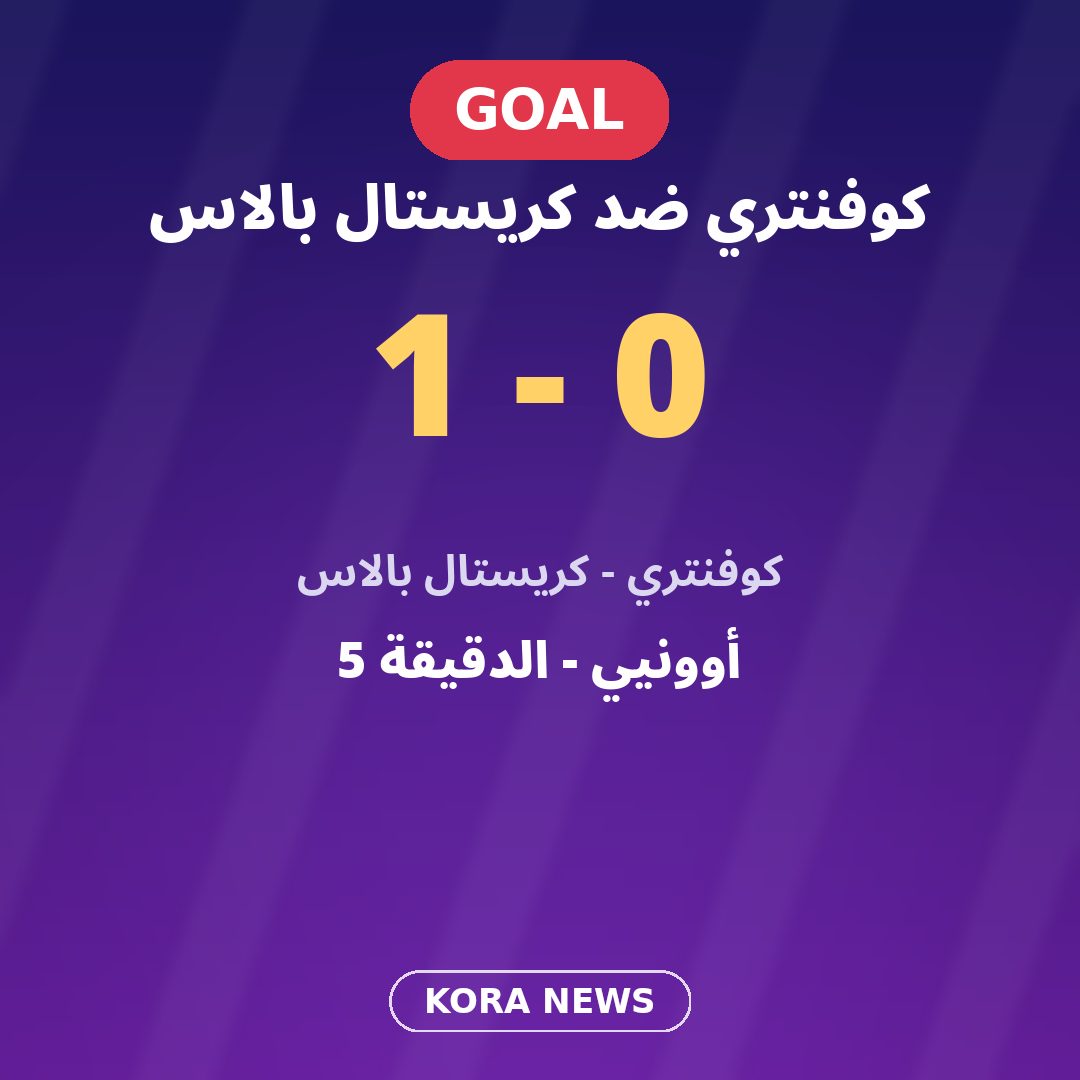
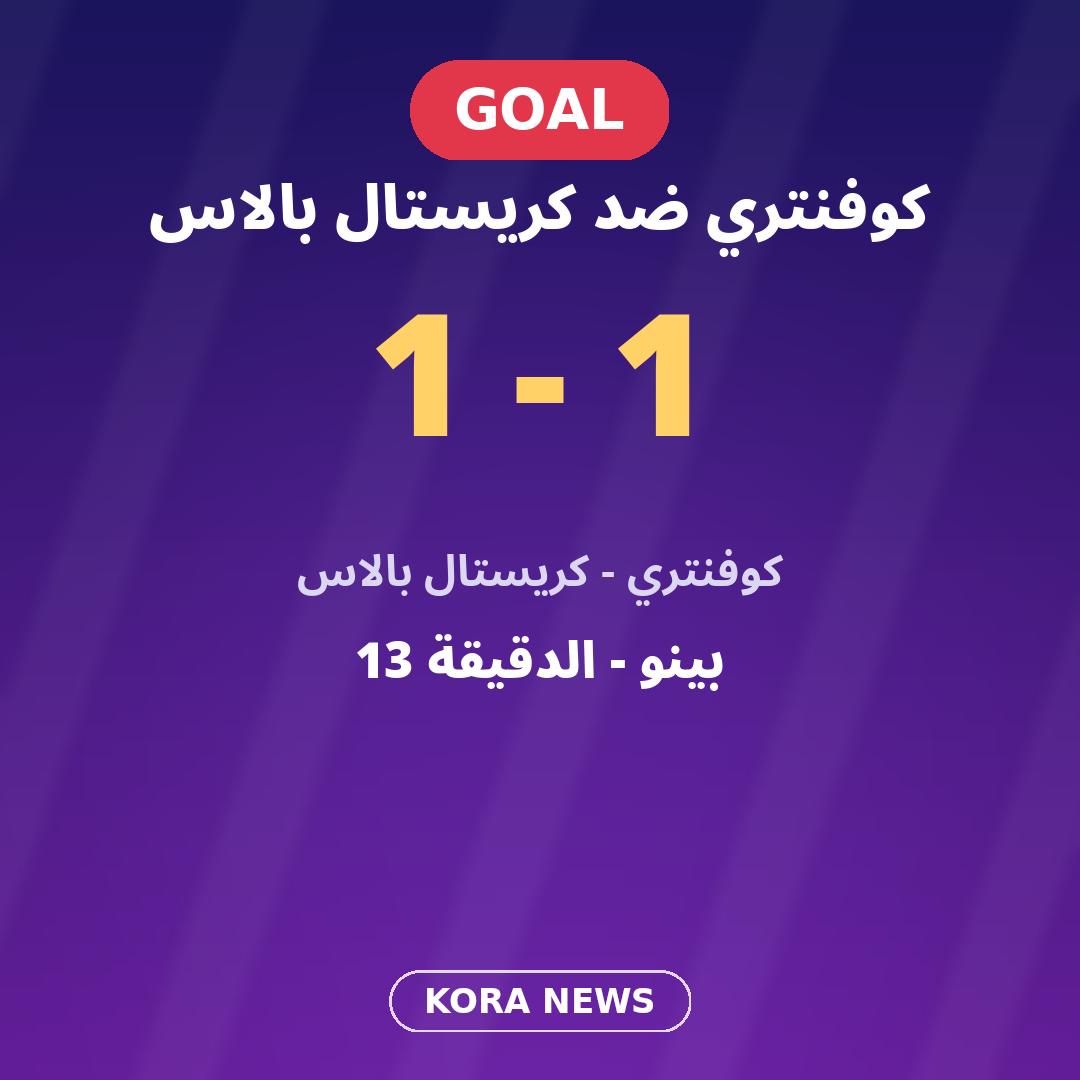
Update Coventry equalizer and add Bournemouth opening goal live snapshot

Changed region(s): [[0.3056, 0.5806, 0.7028, 0.6417], [0.55, 0.275, 0.6722, 0.4278]]

diff --git a/posts/2026-11-21-coventry-palace-live.md b/posts/2026-11-21-coventry-palace-live.md
@@ -1,18 +1,18 @@
 ---
-title: مباشر كوفنتري وكريستال بالاس: أوونيي يسجل مبكرًا
+title: مباشر كوفنتري وكريستال بالاس: بينو يدرك التعادل
 slug: coventry-palace-live
-date: 2026-11-21T17:07:00+02:00
+date: 2026-11-21T17:22:00+02:00
 category: الدوري الإنجليزي
-excerpt: أوونيي يفتتح التسجيل لكوفنتري في الدقيقة الخامسة. النتيجة وقت التحقق عند 17:07 القاهرة هي تقدم كوفنتري بهدف دون رد، وليست نتيجة نهائية.
+excerpt: بينو يعادل لكريستال بالاس في الدقيقة 13. التعادل1-1 وقت التحقق عند17:22 القاهرة، وليس نتيجة نهائية.
 image: coventry-palace-live.png
 facebook: https://www.facebook.com/61550609084848/posts/122326986104020302
 ---
 
-## تحديث 17:07 بتوقيت القاهرة
+## تحديث 17:22 بتوقيت القاهرة
 
-تقدم كوفنتري بهدف دون رد على كريستال بالاس في الدقائق الأولى من مباراتهما بالدوري الإنجليزي يوم السبت 21 نوفمبر 2026، بعدما سجل تايو أوونيي في الدقيقة الخامسة.
+أدرك يريمي بينو التعادل لكريستال بالاس أمام كوفنتري في الدقيقة 13، بعدما افتتح تايو أوونيي التسجيل لأصحاب الأرض في الدقيقة الخامسة.
 
-أظهرت تغطية FotMob تقدم كوفنتري 1-0 وقت التحقق عند الساعة 17:07 بتوقيت القاهرة. هذه لقطة من سير المباراة وليست نتيجة نهائية؛ الصورة المرفقة توثق الهدف الأول.
+أظهرت تغطية FotMob التعادل بهدف لمثله وقت التحقق عند الساعة 17:22 بتوقيت القاهرة يوم 21 نوفمبر 2026. هذه لقطة من سير المباراة وليست نتيجة نهائية، والصورة المرفقة توثق هدف التعادل.
 
 [المصدر: تغطية المباراة المباشرة لدى FotMob](https://www.fotmob.com/matches/coventry-city-vs-crystal-palace/2tu88y).
 

diff --git a/posts/2026-11-21-bournemouth-forest-live.md b/posts/2026-11-21-bournemouth-forest-live.md
@@ -1,0 +1,18 @@
+---
+title: مباشر بورنموث وفورست: إيفانيلسون يفتتح التسجيل
+slug: bournemouth-forest-live
+date: 2026-11-21T17:22:00+02:00
+category: الدوري الإنجليزي
+excerpt: إيفانيلسون يسجل في الدقيقة 19، وبورنموث متقدم بهدف دون رد وقت التحقق عند 17:22 القاهرة. ليست نتيجة نهائية.
+image: bournemouth-forest-live.png
+---
+
+## تحديث 17:22 بتوقيت القاهرة
+
+افتتح إيفانيلسون التسجيل لبورنموث أمام نوتنغهام فورست في الدقيقة 19 من مباراتهما بالدوري الإنجليزي يوم السبت 21 نوفمبر 2026.
+
+أظهرت تغطية FotMob تقدم بورنموث بهدف دون رد وقت التحقق عند الساعة 17:22 بتوقيت القاهرة. هذه لقطة من سير المباراة وليست نتيجة نهائية، والصورة المرفقة توثق الهدف الأول.
+
+[المصدر: التغطية المباشرة لدى FotMob](https://www.fotmob.com/matches/afc-bournemouth-vs-nottingham-forest/2y4tjb).
+
+[التشكيل الأساسي للفريقين](https://kora-news.github.io/posts/bournemouth-forest-confirmed-lineups.html).

diff --git a/posts/2026-11-21-spurs-ipswich-live.md b/posts/2026-11-21-spurs-ipswich-live.md
@@ -5,6 +5,7 @@ date: 2026-11-21T17:18:00+02:00
 category: الدوري الإنجليزي
 excerpt: ويليامز-بارنيت يسجل في الدقيقة 15، وتوتنهام متقدم بهدف دون رد وقت التحقق عند 17:18 بتوقيت القاهرة. ليست نتيجة نهائية.
 image: spurs-ipswich-live.png
+facebook: https://www.facebook.com/61550609084848/posts/122326987934020302
 ---
 
 ## تحديث 17:18 بتوقيت القاهرة
